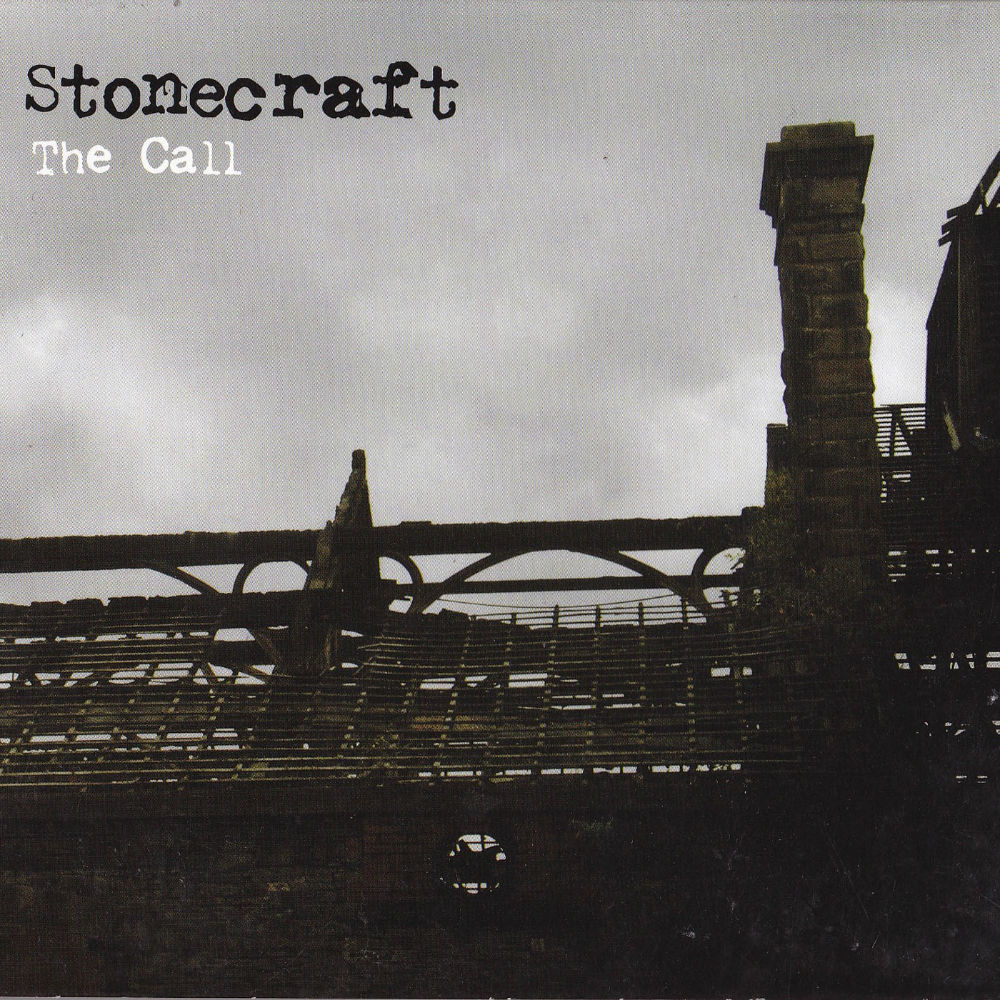
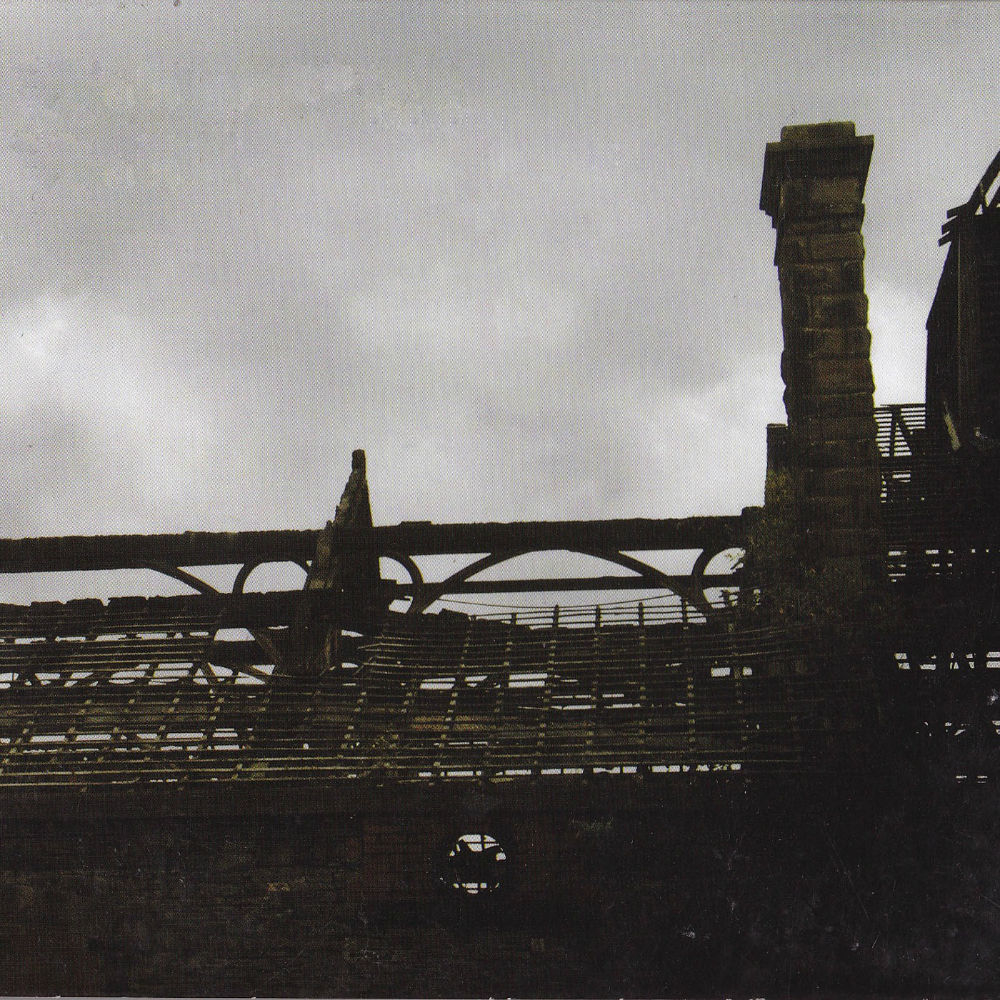
Added new page the call

Changed region(s): [[0.0, 0.062, 0.465, 0.186], [0.062, 0.279, 0.093, 0.31]]

diff --git a/thecall.html b/thecall.html
@@ -1,0 +1,134 @@
+<!DOCTYPE html>
+<html lang="en">
+
+<head>
+    <meta charset="UTF-8">
+    <meta name="viewport" content="width=device-width, initial-scale=1.0">
+    <script src="https://kit.fontawesome.com/cdb7fe57df.js" crossorigin="anonymous"></script>
+    <link
+        href="https://fonts.googleapis.com/css2?family=Roboto:ital,wght@0,100;0,300;0,400;0,500;0,700;0,900;1,100;1,300;1,400;1,500;1,700;1,900&display=swap"
+        rel="stylesheet">
+    <link href="https://cdn.jsdelivr.net/npm/bootstrap@5.3.0/dist/css/bootstrap.min.css" rel="stylesheet"
+        integrity="sha384-9ndCyUaIbzAi2FUVXJi0CjmCapSmO7SnpJef0486qhLnuZ2cdeRhO02iuK6FUUVM" crossorigin="anonymous">
+    <link rel="stylesheet" type="text/css" href="/src/styles.css" />
+    <title>The Call - Stonecraft</title>
+</head>
+
+<body>
+    <div class="container">
+        <header class="the-call" id="header">
+            <nav class="navbar navbar-expand-lg navbar-dark fixed-top ">
+                <div class="container-fluid">
+                    <a class="navbar-brand" href="#header"><img src="/images/Stonecraft logo white 2023.png" /></a>
+                    <button class="navbar-toggler" type="button" data-bs-toggle="collapse" data-bs-target="#navbarNav"
+                        aria-controls="navbarNav" aria-expanded="false" aria-label="Toggle navigation">
+                        <span class="navbar-toggler-icon"></span>
+                    </button>
+                    <div class="collapse navbar-collapse" id="navbarNav">
+                        <ul class="navbar-nav mx-auto">
+                            <li class="nav-item">
+                                <a class="nav-link active" aria-current="page" href="/index.html">Home</a>
+                            </li>
+                            <li class="nav-item">
+                                <a class="nav-link" href="/index.html#music">Music</a>
+                            </li>
+                            <li class="nav-item">
+                                <a class="nav-link" href="/index.html#about">About</a>
+                            </li>
+                            <li class="nav-item">
+                                <a class="nav-link" href="/index.html#videos">Videos</a>
+                            </li>
+                            <li class="nav-item">
+                                <a class="nav-link" href="#">Instruments</a>
+                            </li>
+                            <li class="nav-item">
+                                <a class="nav-link" href="/index.html#contact">Contact</a>
+                            </li>
+
+                        </ul>
+
+                        <button type="button" class="btn btn-outline-light"><a
+                                href="https://open.spotify.com/artist/0CZgbP9rRJSH9MVBxVjZia?si=uBG2BltkRSyLbTuUiSicaw"
+                                target="_blank">Listen on Spotify</a></button>
+                    </div>
+                </div>
+            </nav>
+
+            <h1> The Call</h1>
+
+            <iframe style="border: 0" class="music-player large"
+                src="https://bandcamp.com/EmbeddedPlayer/album=3608998993/size=large/bgcol=ffffff/linkcol=0687f5/transparent=true/"
+                seamless><a href="https://stonecraftceltic.bandcamp.com/album/the-call">The Call by
+                    Stonecraft</a></iframe>
+
+            <div class="player-links">
+
+                <span>
+                    <small>Listen on</small> <a href="https://music.apple.com/us/album/the-call/1066839416"
+                        target="_blank">Apple
+                        Music</a>
+                </span>
+
+                <span>
+                    <small>Listen on</small> <a
+                        href="https://open.spotify.com/album/796r4JYWevRklMli140mfb?si=aTlbwHCiStmU41SjtIOA9A"
+                        target="_blank">Spotify</a>
+                </span>
+
+                <span>
+                    <small>Listen on</small> <a
+                        href="https://youtube.com/playlist?list=PLqQqWqHn23nAghSQNBEyNLVm1DebPaz8N" target="_blank">You
+                        Tube</a>
+                </span>
+            </div>
+
+        </header>
+        <section class="section contact" id="contact">
+            <h2 class="mb-5">Let's get in touch</h2>
+            <p> Email:</p>
+            <p>andy.stonecraft@gmail.com</p>
+
+        </section>
+
+        <section class="section social-media">
+            <div class="row social-media">
+                <div class="col">
+                    <a href="https://www.youtube.com/@StonecraftCeltic" target="_blank"><i
+                            class="fa-brands fa-youtube fa-inverse"></i></a>
+                </div>
+                <div class="col">
+                    <a href="https://open.spotify.com/artist/0CZgbP9rRJSH9MVBxVjZia?si=Rq0RI9AvSX-o13hIgJ4SHQ"
+                        target="_blank"><i class="fa-brands fa-spotify fa-inverse"></i></a>
+                </div>
+                <div class="col">
+                    <a href="https://www.instagram.com/stonecraftceltic/" target="_blank"><i
+                            class="fa-brands fa-instagram fa-inverse"></i></a>
+                </div>
+                <div class="col">
+                    <a href="https://www.facebook.com/StonecraftCelticMusic/" target="_blank"><i
+                            class="fa-brands fa-facebook fa-inverse"></i></a>
+                </div>
+                <div class="col">
+                    <a href="https://music.apple.com/us/artist/stonecraft/616822044" target="_blank"><i
+                            class="fa-brands fa-apple fa-inverse"></i></a>
+                </div>
+                <div class="col">
+                    <a href="https://stonecraftceltic.bandcamp.com/track/secret-window" target="_blank"><i
+                            class="fa-brands fa-bandcamp fa-inverse"></i></a>
+                </div>
+            </div>
+            <p class="coding">Coded with ♥ by <a href="https://viilfjose.com/" target="_blank">Viil Hov
+                    Fjose</a> and
+                is open-sourced on <a href="https://github.com/Viilhov/Stonecraft">GitHub</a></p>
+        </section>
+
+
+
+
+        <script src="https://cdn.jsdelivr.net/npm/bootstrap@5.3.0/dist/js/bootstrap.bundle.min.js"
+            integrity="sha384-geWF76RCwLtnZ8qwWowPQNguL3RmwHVBC9FhGdlKrxdiJJigb/j/68SIy3Te4Bkz"
+            crossorigin="anonymous"></script>
+    </div>
+</body>
+
+</html>

diff --git a/index.html b/index.html
@@ -96,7 +96,7 @@
                         <p>Moving Tides - 2010</p>
                     </div>
                     <div class="col">
-                        <img src="/images/The call.jpg" alt=" #" class="img-fluid" />
+                        <a href="/thecall.html"><img src="/images/The call.jpg" alt=" #" class="img-fluid" /></a>
                         <p>The Call - 2008</p>
                     </div>
                 </div>

diff --git a/src/styles.css b/src/styles.css
@@ -169,6 +169,10 @@ header.moving-tides {
   background-image: linear-gradient(rgba(0, 0, 0, 0.5), rgba(0, 0, 0, 0.5)),
     url("/images/Moving\ tides\ clean.jpg");
 }
+header.the-call {
+  background-image: linear-gradient(rgba(0, 0, 0, 0.7), rgba(0, 0, 0, 0.7)),
+    url("/images/The\ call\ clean.jpg");
+}
 
 @media (max-width: 992px) {
   h1 {
